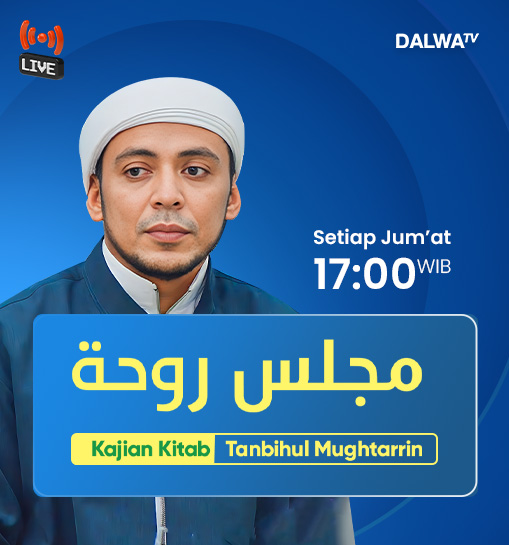
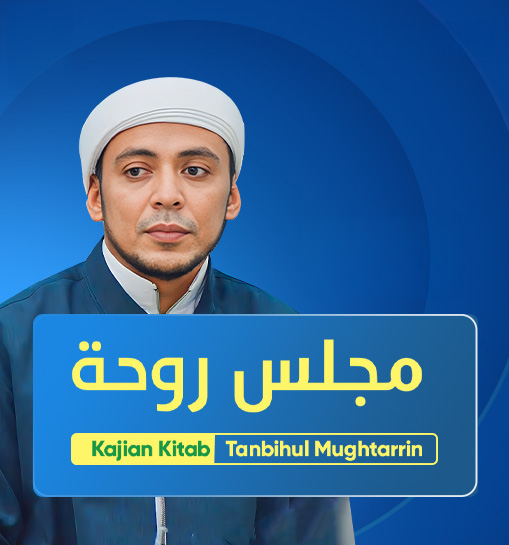
bismillah 1

Changed region(s): [[0.6189, 0.4055, 0.8841, 0.5303], [0.0295, 0.0312, 0.1473, 0.156], [0.7662, 0.0624, 0.943, 0.0936]]

diff --git a/blog-details.html b/blog-details.html
@@ -71,7 +71,7 @@
                                                     <li><a href="movie-details.html">Movie Details</a></li>
                                                 </ul>
                                             </li>
-                                            <li><a href="tv-show.html">tv show</a></li>
+                                            <li><a href="tv-show.html">Live</a></li>
                                             <li><a href="pricing.html">Pricing</a></li>
                                             <li class="active menu-item-has-children"><a href="#">blog</a>
                                                 <ul class="submenu">
@@ -180,23 +180,16 @@
                                 </div>
                                 <div class="blog-post-content">
                                     <div class="blog-details-top-meta">
-                                        <span class="user"><i class="far fa-user"></i> by <a href="#">Admin</a></span>
-                                        <span class="date"><i class="far fa-clock"></i> 10 Mar 2021</span>
+                                        <span class="user"><i class="far fa-user"></i> by <a href="#">DalwaTV</a></span>
+                                        <span class="date"><i class="far fa-clock"></i> 20 Okt 2024</span>
                                     </div>
-                                    <h2 class="title">Your Free Movie Streaming Purposes</h2>
-                                    <p>Lorem Ipsum is simply dummy text of the printing and typetting industry. Lorem Ipsum has been the industry's standard
-                                    dummy text ever since the 1500s, when an unknown printer took a galley of type and scrambled it to make a type specimen
-                                    book. It has survived not only five centuies, but also the leap into electronic typesetting, remaining essentially
-                                    unchanged. It was populrised in the 1960s with the release of Letraset sheets containing Lorem Ipsum passages, and more
-                                    recently .</p>
-                                    <p>Printing and typetting industry. Lorem Ipsum has been the industry's standrd dummy text ever since the, when an unknown
-                                    printer took a galley of type and scrambled it to make a type specimen book. It has survived not only five centuies, but
-                                    also the leap into electronic typesetting, remaining essentially unched. It was populrised in the 1960s with the release
-                                    of Letraset sheets containing .</p>
+                                    <h2 class="title">Sinopsis Short Movie</h2>
+                                    <p>Zafer, seorang pemuda penuh ambisi, selalu bertemu kegagalan di setiap langkah. Hidupnya seolah dikejar oleh masalah yang tak pernah berakhir. Di saat ia berada di titik terendah, sebuah kesadaran muncul, mengguncang seluruh pandangannya tentang hidup .</p>
+                                    <p>Apa yang sebenarnya menghalangi jalannya? Dan, mungkinkah ada sesuatu yang lebih besar dari sekedar nasib buruk ?</p>
                                     <blockquote>
                                         <i class="fas fa-quote-right"></i>
-                                        <p>Watch Mobflx movies & TV shows online or stream rights to your smart TV, game console, PC, mobile more.</p>
-                                        <figure><span>Frenk Smith</span> Founder ceo</figure>
+                                        <p>Kembali – sebuah perjalanan batin yang penuh teka-teki. Apa yang sebenarnya hilang dalam hidup Zafer ?</p>
+                                        <figure><span>DalwaTV</span> Admin</figure>
                                     </blockquote>
                                     <div class="blog-img-wrap">
                                         <div class="row">
@@ -208,18 +201,14 @@
                                             </div>
                                         </div>
                                     </div>
-                                    <p>Lorem Ipsum is simply dummy text of the printing and typetting industry. Lorem Ipsum has been the industry's standard
-                                    dummy text ever since the 1500s, when an unknown printer took a galley of type and scrambled it to make a type specimen
-                                    book. It has survived not only five centuies.</p>
-                                    <p>Printing and typetting industry. Lorem Ipsum has been the industry's standrd dummy text ever since the, when an unknown
-                                    printer took a galley of type and scrambled it to make a type specimen book. It has survived not only five centuies, but
-                                    also the leap into electronic typesetting, remaining essentially unched. It was populrised in the 1960s with the release
-                                    of Letraset sheets containing .</p>
+                                    <p>Dalam pencariannya, Zafer harus menghadapi sesuatu yang jauh lebih dalam dari yang ia bayangkan. Tapi pertanyaannya, apakah ia siap menemukan jawabannya ?</p>
+                                    <p>Kembali menggambarkan perjalanan batin Zafer sebagai cerminan bahwa masalah hidup sering kali berakar dari dalam diri kita sendiri, bukan sekadar nasib buruk atau hambatan eksternal. Dalam usahanya mencari jawaban, Zafer menyadari bahwa yang benar-benar hilang dalam hidupnya adalah pemahaman tentang dirinya sendiri—kesadaran akan potensi, nilai, dan tujuan yang lebih besar. Ia mulai menyadari bahwa mungkin ia bukan dikejar oleh kegagalan, melainkan oleh harapan-harapan yang belum selaras dengan jati dirinya. Dengan menerima kenyataan pahit dan menggali lebih dalam, Zafer menemukan bahwa keberanian untuk berubah dan memahami diri adalah kunci untuk mengatasi hambatan terbesar dalam hidupnya .</p>
+                                    <p>Kembali bukan hanya sekedar kisah seseorang yang mencari jawaban, tetapi sebuah undangan bagi setiap orang untuk pulang kembali kepada diri, menemukan makna sejati di balik setiap cobaan hidup .</p>
                                     <div class="blog-post-meta">
                                         <div class="blog-details-tags">
                                             <ul>
                                                 <li><i class="fas fa-tags"></i> <span>Tags :</span></li>
-                                                <li><a href="#">Movies ,</a> <a href="#">Creative ,</a> <a href="#">News ,</a> <a href="#">English</a></li>
+                                                <li><a href="#">Movies ,</a> <a href="#">Creative ,</a> <a href="#">Self Improvment ,</a> <a href="#">Indonesia</a></li>
                                             </ul>
                                         </div>
                                         <div class="blog-post-share">
@@ -432,7 +421,7 @@
                                         <ul class="navigation">
                                             <li><a href="index.html">Home</a></li>
                                             <li><a href="index.html">Movie</a></li>
-                                            <li><a href="index.html">tv show</a></li>
+                                            <li><a href="index.html">Live</a></li>
                                             <li><a href="index.html">pages</a></li>
                                             <li><a href="pricing.html">Pricing</a></li>
                                         </ul>

diff --git a/index.html b/index.html
@@ -70,7 +70,7 @@
                                                     <li><a href="movie-details.html">Movie Details</a></li>
                                                 </ul>
                                             </li>
-                                            <li><a href="tv-show.html">tv show1</a></li>
+                                            <li><a href="tv-show.html">Live</a></li>
                                             <li><a href="pricing.html">Pricing</a></li>
                                             <li class="menu-item-has-children"><a href="#">blog</a>
                                                 <ul class="submenu">
@@ -106,7 +106,7 @@
                                 <div class="close-btn"><i class="fas fa-times"></i></div>
 
                                 <nav class="menu-box">
-                                    <div class="nav-logo"><a href="index.html"><img src="img/logo/logo.png" alt="" title=""></a>
+                                    <div class="nav-logo"><a href="index.html"><img src="img/logo/logo 1.png" alt="" title=""></a>
                                     </div>
                                     <div class="menu-outer">
                                         <!--Here Menu Will Come Automatically Via Javascript / Same Menu as in Header-->
@@ -155,25 +155,10 @@
                     <div class="row">
                         <div class="col-xl-6 col-lg-8">
                             <div class="banner-content">
-                                <h6 class="sub-title wow fadeInUp" data-wow-delay=".2s" data-wow-duration="1.8s">DalwaTV</h6>
                                 <h2 class="title wow fadeInUp" data-wow-delay=".4s" data-wow-duration="1.8s">Special <span>Event</span>, Education, & More.</h2>
                                 <div class="banner-meta wow fadeInUp" data-wow-delay=".6s" data-wow-duration="1.8s">
-                                    <ul>
-                                        <li class="quality">
-                                            <span>Pg 18</span>
-                                            <span>hd</span>
-                                        </li>
-                                        <li class="category">
-                                            <a href="#">Romance,</a>
-                                            <a href="#">Drama</a>
-                                        </li>
-                                        <li class="release-time">
-                                            <span><i class="far fa-calendar-alt"></i> 2021</span>
-                                            <span><i class="far fa-clock"></i> 128 min</span>
-                                        </li>
-                                    </ul>
                                 </div>
-                                <a href="https://www.youtube.com/watch?v=R2gbPxeNk2E" class="banner-btn btn popup-video wow fadeInUp" data-wow-delay=".8s" data-wow-duration="1.8s"><i class="fas fa-play"></i> Watch Now</a>
+                                <a href="https://www.youtube.com/watch?v=X9lL2jG2CHI" class="banner-btn btn popup-video wow fadeInUp" data-wow-delay=".8s" data-wow-duration="1.8s"><i class="fas fa-play"></i> Watch Now</a>
                             </div>
                         </div>
                     </div>
@@ -196,7 +181,7 @@
                             <div class="ucm-nav-wrap">
                                 <ul class="nav nav-tabs" id="myTab" role="tablist">
                                     <li class="nav-item" role="presentation">
-                                        <a class="nav-link active" id="tvShow-tab" data-toggle="tab" href="#tvShow" role="tab" aria-controls="tvShow" aria-selected="true">TV Shows</a>
+                                        <a class="nav-link active" id="tvShow-tab" data-toggle="tab" href="#tvShow" role="tab" aria-controls="tvShow" aria-selected="true">Live</a>
                                     </li>
                                     <li class="nav-item" role="presentation">
                                         <a class="nav-link" id="movies-tab" data-toggle="tab" href="#movies" role="tab" aria-controls="movies" aria-selected="false">Movies</a>
@@ -587,7 +572,7 @@
                     <div class="row justify-content-center">
                         <div class="col-lg-8">
                             <div class="tr-movie-menu-active text-center">
-                                <button class="active" data-filter="*">TV Shows</button>
+                                <button class="active" data-filter="*">Live</button>
                                 <button class="" data-filter=".cat-one">Movies</button>
                                 <button class="" data-filter=".cat-two">documentary</button>
                                 <button class="" data-filter=".cat-three">sports</button>
@@ -786,8 +771,7 @@
                                 <h2 class="title">Live Movie & TV Shows For Friends & Family</h2>
                             </div>
                             <div class="live-movie-content">
-                                <p>Lorem ipsum dolor sit amet, consecetur adipiscing elseddo eiusmod There are many variations of passages of lorem Ipsum
-                                available, but the majority have suffered alteration.</p>
+                                <p>Tayangan unik seperti perayaan khusus, konten pendidikan, dan hiburan tambahan yang informatif dan menarik bagi berbagai kalangan.</p>
                                 <div class="live-fact-wrap">
                                     <div class="resolution">
                                         <h2>HD 4K</h2>
@@ -797,7 +781,7 @@
                                         <p>Active Customer</p>
                                     </div>
                                 </div>
-                                <a href="https://www.youtube.com/watch?v=R2gbPxeNk2E" class="btn popup-video"><i class="fas fa-play"></i> Watch Now</a>
+                                <a href="https://linktr.ee/dalwa.tv_?fbclid=PAZXh0bgNhZW0CMTEAAaZ-WeDBd4ve_D1FMd3QvF8MjAdCG0hvN-z6zotrgOSMeegiDmKjkdWnS54_aem_cqL0sFDyc-rEvjtJv9Mc1g" class="btn popup-link"><i class="fas fa-link"></i>Contact </a>
                             </div>
                         </div>
                         <div class="col-xl-7 col-lg-6">
@@ -959,7 +943,7 @@
                                         <ul class="navigation">
                                             <li><a href="index.html">Home</a></li>
                                             <li><a href="index.html">Movie</a></li>
-                                            <li><a href="index.html">tv show</a></li>
+                                            <li><a href="index.html">Live</a></li>
                                             <li><a href="index.html">pages</a></li>
                                             <li><a href="pricing.html">Pricing</a></li>
                                         </ul>
@@ -1005,7 +989,7 @@
                     <div class="row">
                         <div class="col-lg-6 col-md-6">
                             <div class="copyright-text">
-                                <p>Copyright &copy; 2021. All Rights Reserved By <a href="index.html">Movflx</a></p>
+                                <p>Copyright &copy; 2021. All Rights Reserved By <a href="index.html">DALWATV</a></p>
                             </div>
                         </div>
                         <div class="col-lg-6 col-md-6">

diff --git a/index-2.html b/index-2.html
@@ -181,23 +181,8 @@
                                 </div>
                                 <div class="col-lg-6">
                                     <div class="banner-content">
-                                        <h6 class="sub-title" data-animation="fadeInUp" data-delay=".2s">DalwaTV</h6>
                                         <h2 class="title" data-animation="fadeInUp" data-delay=".4s">Saluran <span>Informasi Pendidikan </span>, Education, & More.</h2>
                                         <div class="banner-meta" data-animation="fadeInUp" data-delay=".6s">
-                                            <ul>
-                                                <li class="quality">
-                                                    <span>Pg 18</span>
-                                                    <span>hd</span>
-                                                </li>
-                                                <li class="category">
-                                                    <a href="#">Romance,</a>
-                                                    <a href="#">Drama</a>
-                                                </li>
-                                                <li class="release-time">
-                                                    <span><i class="far fa-calendar-alt"></i> 2021</span>
-                                                    <span><i class="far fa-clock"></i> 128 min</span>
-                                                </li>
-                                            </ul>
                                         </div>
                                         <a href="https://www.youtube.com/watch?v=R2gbPxeNk2E" class="banner-btn btn popup-video" data-animation="fadeInUp" data-delay=".8s"><i class="fas fa-play"></i> Watch Now</a>
                                     </div>
@@ -215,23 +200,8 @@
                                 </div>
                                 <div class="col-lg-6">
                                     <div class="banner-content">
-                                        <h6 class="sub-title" data-animation="fadeInUp" data-delay=".2s">DalwaTV</h6>
                                         <h2 class="title" data-animation="fadeInUp" data-delay=".4s">Special <span>Event</span>, Education, & More</h2>
                                         <div class="banner-meta" data-animation="fadeInUp" data-delay=".6s">
-                                            <ul>
-                                                <li class="quality">
-                                                    <span>Pg 18</span>
-                                                    <span>hd</span>
-                                                </li>
-                                                <li class="category">
-                                                    <a href="#">Romance,</a>
-                                                    <a href="#">Drama</a>
-                                                </li>
-                                                <li class="release-time">
-                                                    <span><i class="far fa-calendar-alt"></i> 2021</span>
-                                                    <span><i class="far fa-clock"></i> 120 min</span>
-                                                </li>
-                                            </ul>
                                         </div>
                                         <a href="https://www.youtube.com/watch?v=R2gbPxeNk2E" class="banner-btn btn popup-video" data-animation="fadeInUp" data-delay=".8s"><i class="fas fa-play"></i> Watch Now</a>
                                     </div>
@@ -1400,7 +1370,7 @@
                     <div class="row">
                         <div class="col-lg-6 col-md-6">
                             <div class="copyright-text">
-                                <p>Copyright &copy; 2021. All Rights Reserved By <a href="index.html">Movflx</a></p>
+                                <p>Copyright &copy; 2021. All Rights Reserved By <a href="index.html">DALWATV</a></p>
                             </div>
                         </div>
                         <div class="col-lg-6 col-md-6">

diff --git a/contact.html b/contact.html
@@ -70,7 +70,7 @@
                                                     <li><a href="movie-details.html">Movie Details</a></li>
                                                 </ul>
                                             </li>
-                                            <li><a href="tv-show.html">tv show</a></li>
+                                            <li><a href="tv-show.html">Live</a></li>
                                             <li><a href="pricing.html">Pricing</a></li>
                                             <li class="menu-item-has-children"><a href="#">blog</a>
                                                 <ul class="submenu">
@@ -150,16 +150,15 @@
         <main>
 
             <!-- breadcrumb-area -->
-            <section class="breadcrumb-area breadcrumb-bg" data-background="img/bg/breadcrumb_bg.jpg">
+            <section class="breadcrumb-area breadcrumb-bg" data-background="img/bg/ucm_bg2.jpg">
                 <div class="container">
                     <div class="row">
                         <div class="col-12">
                             <div class="breadcrumb-content">
-                                <h2 class="title">Contact Us</h2>
+                                <h2 class="title"></h2>
                                 <nav aria-label="breadcrumb">
                                     <ol class="breadcrumb">
-                                        <li class="breadcrumb-item"><a href="index.html">Home</a></li>
-                                        <li class="breadcrumb-item active" aria-current="page">Contact</li>
+                                        <li class="breadcrumb-item"><a href="index.html"></a></li>
                                     </ol>
                                 </nav>
                             </div>
@@ -276,7 +275,7 @@
                                         <ul class="navigation">
                                             <li><a href="index.html">Home</a></li>
                                             <li><a href="index.html">Movie</a></li>
-                                            <li><a href="index.html">tv show</a></li>
+                                            <li><a href="index.html">Live</a></li>
                                             <li><a href="index.html">pages</a></li>
                                             <li><a href="pricing.html">Pricing</a></li>
                                         </ul>

diff --git a/tv-show.html b/tv-show.html
@@ -571,7 +571,7 @@
                     <div class="row">
                         <div class="col-lg-6 col-md-6">
                             <div class="copyright-text">
-                                <p>Copyright &copy; 2021. All Rights Reserved By <a href="index.html">Movflx</a></p>
+                                <p>Copyright &copy; 2021. All Rights Reserved By <a href="index.html">DALWATV</a></p>
                             </div>
                         </div>
                         <div class="col-lg-6 col-md-6">
